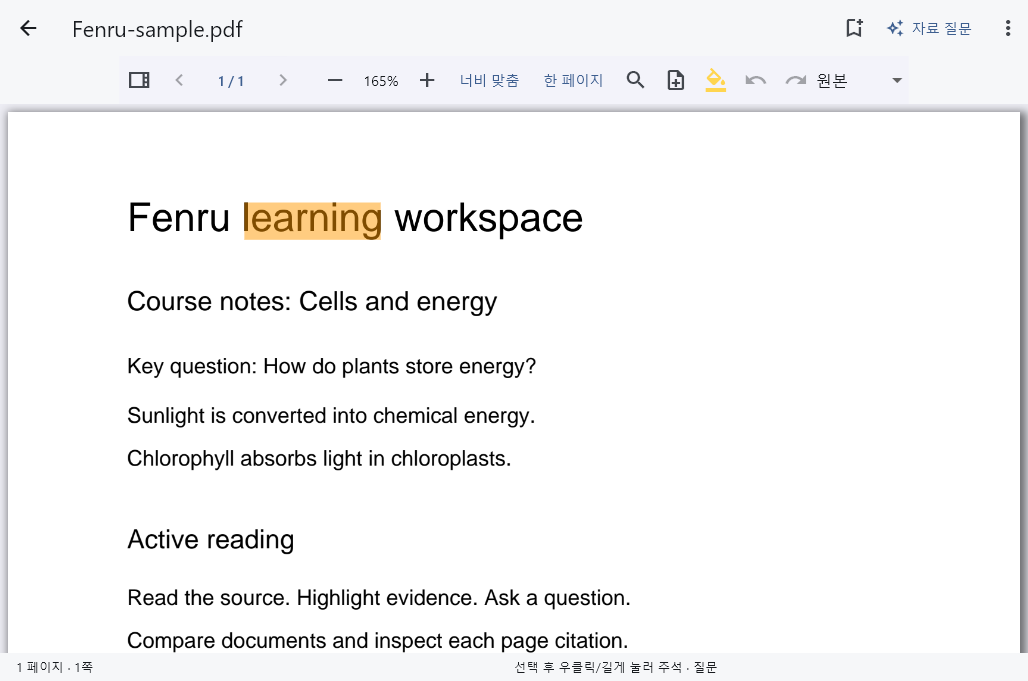
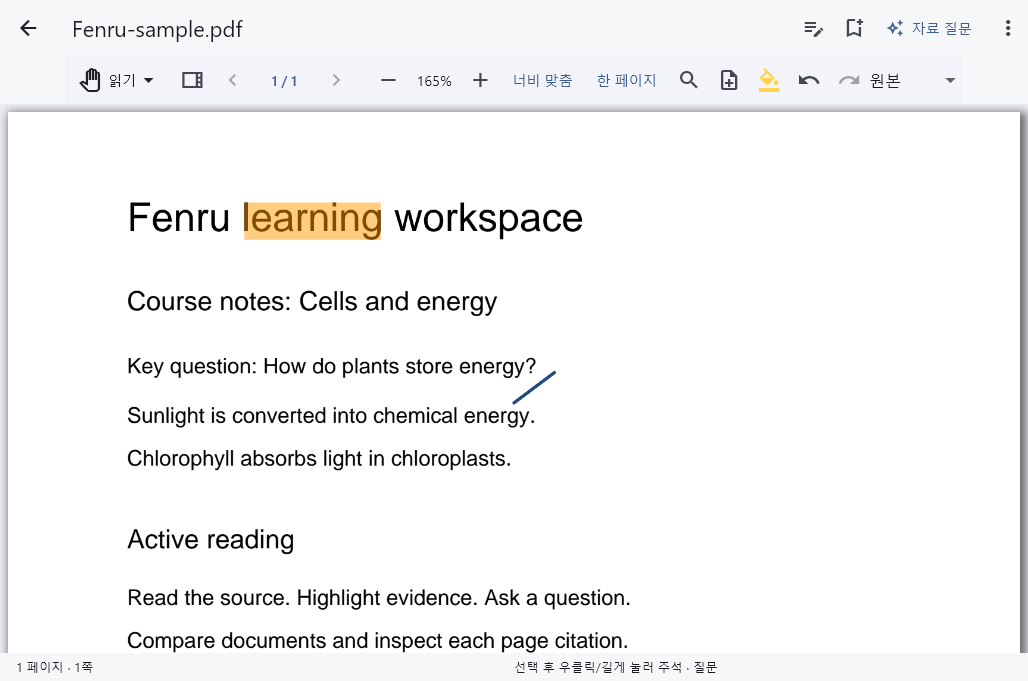
docs: record alpha.7 release and native study verification [skip ci]

diff --git a/README.md b/README.md
@@ -2,21 +2,23 @@
 
 내 기기에 자료와 학습 기록을 보관하는 Windows / Android용 Flutter 학습 워크스페이스입니다.
 
-**개발 프리릴리스입니다. 전체 제품 요구사항 구현은 완료되지 않았습니다.** Google Drive 자동 동기화는 아직 제공하지 않습니다. AI는 BYOK 코드와 모의 테스트를 검증했으며 실제 생성 API 성공은 미검증입니다. [구현 현황](docs/IMPLEMENTATION_STATUS.md)을 확인하세요.
+**개발 프리릴리스입니다. 전체 제품 요구사항 구현은 완료되지 않았습니다.** Google Drive 자동 동기화는 아직 제공하지 않습니다. AI는 BYOK 방식이며 사용자가 실제 답변 품질이 좋다고 보고했습니다. 자동 검증은 모의 제공자를 사용하며 실제 모델 답변의 정확성을 보장하지 않습니다. [구현 현황](docs/IMPLEMENTATION_STATUS.md)을 확인하세요.
 
 ## 다운로드
 
-[v0.1.0-alpha.5 개발 프리릴리스](https://github.com/vividhyeok/fenru/releases/tag/v0.1.0-alpha.5)를 게시했습니다. [Windows 설치 프로그램](https://github.com/vividhyeok/fenru/releases/download/v0.1.0-alpha.5/Fenru-Windows-x64-Setup.exe), [Portable ZIP](https://github.com/vividhyeok/fenru/releases/download/v0.1.0-alpha.5/Fenru-Windows-x64-portable.zip), [프로젝트 키 서명 Android APK](https://github.com/vividhyeok/fenru/releases/download/v0.1.0-alpha.5/Fenru-Android-release.apk)를 제공합니다. 체크섬과 공개 서명 인증서 정보는 릴리스에 포함됩니다. [최종 CI](https://github.com/vividhyeok/fenru/actions/runs/39614048408)는 40개 unit/widget 테스트, Windows/Android 문서 통합 테스트와 두 플랫폼 빌드/패키징을 통과했습니다.
+[v0.1.0-alpha.7 개발 프리릴리스](https://github.com/vividhyeok/fenru/releases/tag/v0.1.0-alpha.7)를 게시했습니다. [Windows 설치 프로그램](https://github.com/vividhyeok/fenru/releases/download/v0.1.0-alpha.7/Fenru-Windows-x64-Setup.exe), [Portable ZIP](https://github.com/vividhyeok/fenru/releases/download/v0.1.0-alpha.7/Fenru-Windows-x64-portable.zip), [프로젝트 키 서명 Android APK](https://github.com/vividhyeok/fenru/releases/download/v0.1.0-alpha.7/Fenru-Android-release.apk)를 제공합니다. 체크섬과 공개 서명 인증서 정보는 릴리스에 포함됩니다. [최종 CI](https://github.com/vividhyeok/fenru/actions/runs/39712689175)는 47개 unit/widget 테스트, Windows/Android 문서 통합 테스트와 두 플랫폼 빌드/패키징을 통과했습니다.
 
 ## 구현한 기능
 
 - 로컬 전용 온보딩과 라이트/다크 테마
 - 파일 가져오기·해시 중복 검사·이름/폴더/태그·휴지통
-- PDF 썸네일·목차·주석 탐색, 확대/맞춤·검색·읽기 색상·책갈피·페이지 메모·선택 하이라이트/밑줄
+- PDF 썸네일·목차·주석 탐색, 확대/맞춤·검색·읽기 색상·책갈피·페이지 메모·선택 하이라이트/밑줄·펜 필기/자유 형광펜/직선 밑줄
+- PDF 옆 자동 저장 정리 노트, 질문 패널 집중 보기·초안/대화 기록·답변 저장 완료와 노트 열기
+- 설치된 문서 프로그램을 이용한 Office/한글 PDF 변환 시도·원본 보관·실패 재시도 (Android 변환 엔진 미제공)
 - 텍스트와 이미지 미리보기, 다른 형식은 외부 앱으로 열기
 - Markdown 노트 편집·자동 저장·미리보기·자료 연결
 - 제목/노트/텍스트 검색, 학습 일정·완료 체크
-- Canvas HTTPS 주소와 보안 토큰 설정, 선택 과목 파일·과제 가져오기
+- Canvas HTTPS 연결, 파일·주차 모듈·LearningX·페이지·게시판/공지·공개 답글·과제 설명의 첨부 탐색
 - ZIP 백업 및 벡터 시계 기반 병합·충돌 복사본
 - 앱 내부 도움말과 오픈소스 라이선스 화면
 - OpenAI Responses / DeepSeek BYOK 설정, 모델 조회/직접 입력, 스트리밍·취소·대화 보관, 과목/자료별 질문·로컬 근거 검색과 검증된 내부 출처 링크
@@ -67,6 +69,10 @@ SQLite와 파일은 앱 지원 디렉터리/workspace에 보관합니다. 실행
 ![데스크톱 라이트 모드 테스트 렌더](docs/screenshots/home-desktop-test-render.png)
 ![모바일 다크 모드 테스트 렌더](docs/screenshots/home-mobile-test-render.png)
 
-alpha.5 Windows 문서 통합 테스트에서 직접 렌더링한 PDF 리더입니다. 프로젝트가 작성한 테스트 문서를 사용했습니다.
+alpha.7 Windows 문서 통합 테스트에서 직접 렌더링한 PDF 리더입니다. 프로젝트가 작성한 테스트 문서를 사용했습니다.
 
 ![Windows PDF 리더 통합 테스트](docs/screenshots/reader-native-scoped.png)
+
+아래는 작성한 예시 대화를 사용한 alpha.7 채팅 위젯 테스트 렌더입니다. 실제 생성 API 응답 캡처가 아닙니다.
+
+![학습 질문 화면 테스트 렌더](docs/screenshots/study-chat-test-render.png)

diff --git a/docs/IMPLEMENTATION_STATUS.md b/docs/IMPLEMENTATION_STATUS.md
@@ -3,7 +3,7 @@
 최종 갱신: 2026-10-22 (Asia/Seoul)
 
 ## 상태
-alpha.7 후보: 채팅 세로 공간 정리·패널 집중 보기·대화 기록/초안·저장 완료/노트 열기·출처 연계, PDF 자유 필기/형광펜/밑줄과 별도 자동 저장 정리 노트, 설치된 변환 프로그램을 통한 Office/한글 PDF 변환, Canvas 페이지/게시판/공지/답글/과제 첨부 탐색을 추가했습니다. 로컬 unit/widget 47개 통과. Windows Word/PowerPoint의 작성한 DOCX/PPTX 변환은 확인했으며 HWP/HWPX/LibreOffice 실제 변환은 미검증입니다. Android는 변환 엔진을 제공하지 않습니다. 실제 Canvas 새 탐색에서 표본 과목 한 개의 문서 12개(주차 8/공지 2/과제 2)를 읽기 전용으로 발견했습니다. 실제 자료 가져오기는 하지 않았습니다. alpha.6 후보의 네이티브 검증은 펜 저장 이후 하이라이트 메뉴 선택 대상을 혼동하여 실패했으며 테스트 선택자를 수정했습니다. alpha.6은 Release로 게시하지 않았습니다. 플랫폼 통합/릴리스는 진행 중입니다.
+alpha.7 배포 완료: 채팅 세로 공간 정리·패널 집중 보기·대화 기록/초안·저장 완료/노트 열기·출처 연계, PDF 자유 필기/형광펜/밑줄과 별도 자동 저장 정리 노트, 설치된 변환 프로그램을 통한 Office/한글 PDF 변환, Canvas 페이지/게시판/공지/답글/과제 첨부 탐색을 추가했습니다. 로컬 unit/widget 47개 통과. Windows Word/PowerPoint의 작성한 DOCX/PPTX 변환은 확인했으며 HWP/HWPX/LibreOffice 실제 변환은 미검증입니다. Android는 변환 엔진을 제공하지 않습니다. 실제 Canvas 새 탐색에서 표본 과목 한 개의 문서 12개(주차 8/공지 2/과제 2)를 읽기 전용으로 발견했습니다. 실제 자료 가져오기는 하지 않았습니다. alpha.6 후보의 네이티브 검증은 펜 저장 이후 하이라이트 메뉴 선택 대상을 혼동하여 실패했으며 테스트 선택자를 수정했습니다. alpha.6은 Release로 게시하지 않았습니다. Actions 39712689175 전체 성공: 포맷·분석·47개 테스트, Windows/Android PDF 펜 입력·텍스트 주석·Undo/Redo·정리 노트 자동 저장·재오픈 보존 통합 검증, Windows release/설치형/Portable 및 Android 프로젝트 서명 release APK/서명 확인, Release 게시를 통과했습니다. Windows 설치형과 Portable 배포 파일 SHA256 일치를 확인하고 실제 Windows 통합 테스트 PDF 렌더의 필기 위치를 시각 확인했습니다. 로컬 Windows 컴파일/수동 앱 실행 성공을 주장하지 않습니다.
 
 alpha.5 배포 완료: 사용자의 요청에 따라 독립 AI 메뉴/상단 일반 대화 진입을 제거하고 과목·자료에 질문을 통합했습니다. 과목별 자료 목록/질문 패널, 자료 전체/현재 페이지/선택 문장, 범위별 대화 저장, PDF/텍스트 본문 버전 캐시와 키워드 기반 발췌 검색, 원문 페이지 버튼을 구현했습니다. PDF 리더는 탐색(페이지 썸네일/목차/주석), 확대/맞춤/검색, 읽기 색상, 주석 색상/현재 실행 중 생성한 주석 Undo/Redo, 너비 조절 질문 패널을 제공합니다. 로컬/CI unit/widget 40개와 정적 분석, Windows/Android 문서 통합 테스트, 두 플랫폼 release 빌드/패키징 및 Android 서명 검증을 통과했습니다. Actions 39614048408에서 alpha.5를 게시했습니다. Windows 설치형/Portable 배포 파일의 SHA256 일치를 확인했습니다. 실제 유료 생성 API 호출은 수행하지 않았습니다.
 

diff --git a/docs/USER_GUIDE.md b/docs/USER_GUIDE.md
@@ -5,3 +5,9 @@
 자료를 가져오면 원본과 별도로 복사됩니다. 라이브러리 메뉴에서 이름/폴더/태그를 수정하고, PDF에서 책갈피와 페이지 메모를 추가하세요. 노트는 Markdown 자동 저장이며 미리보기를 지원합니다. 플래너에 목표와 날짜를 입력하고 완료를 체크할 수 있습니다.
 
 다른 기기로 이동하려면 설정 → ZIP 백업 후 대상 기기에서 백업 병합 복원을 사용합니다. ZIP에 개인 자료가 포함되며 암호화되지 않습니다. 외부 AI로 문서를 자동 업로드하거나 웹 구독 기능을 우회하지 않습니다.
+
+PDF 도구줄의 읽기 메뉴에서 펜 필기·자유 형광펜·직선 밑줄을 선택하세요. 이동/텍스트 선택은 읽기로 돌아갑니다. 필기는 원본 PDF를 변경하지 않고 앱에 별도로 저장하며 ZIP 백업에 포함됩니다. 상단 정리 노트 버튼은 같은 자료 노트를 재사용합니다. 넓은 화면에서는 자료 옆에서 편집하고, 작은 화면에서는 노트 화면으로 이동합니다.
+
+질문의 참고 범위·모델·이전 대화·연결 노트는 대화 메뉴에서 확인합니다. 노트로 저장 후 완료 메시지의 열기 버튼을 누르세요. 패널을 넓게 보거나 나란히 전환해도 작성 중 질문을 유지합니다. 입력창의 +는 한 문제씩 복습 등의 문장을 준비하며 자동 전송하지 않습니다.
+
+Office/한글 문서는 원본 저장 후 PDF 변환을 시도합니다. Windows에 LibreOffice 또는 해당 Word/PowerPoint/한글이 필요하며, 한글은 파일 접근 허용이 필요할 수 있습니다. 실패 원본 화면에서 PDF로 변환·재시도합니다. Android에는 변환 엔진이 없으므로 원본 앱에서 PDF로 저장하거나 Windows 변환 PDF를 백업으로 옮기세요. Canvas 자료는 과목 가져오기를 다시 실행하면 새 탐색 경로의 첨부도 확인합니다.

diff --git a/docs/RELEASE_NOTES.md b/docs/RELEASE_NOTES.md
@@ -23,7 +23,7 @@
 alpha.6 후보는 네이티브 통합 테스트의 새 메뉴 선택 대상을 바로잡기 위해 배포 전에 중단했으며 Release로 게시하지 않았습니다.
 
 ## 검증과 업데이트
-47개 unit/widget 테스트 통과. PDF 펜 입력/검색/확대/주석 Undo·Redo/정리 노트 자동 저장/재오픈 보존을 Windows·Android 문서 통합 테스트로 검증합니다. 최종 결과는 Actions 및 구현 현황을 확인하세요. 이번 변경에서 실제 유료 AI 생성 요청은 하지 않았습니다.
+47개 unit/widget 테스트와 PDF 펜 입력/검색/확대/주석 Undo·Redo/정리 노트 자동 저장/재오픈 보존의 Windows·Android 문서 통합 테스트를 통과했습니다. [최종 Actions](https://github.com/vividhyeok/fenru/actions/runs/39712689175) 전체 성공 및 두 플랫폼 패키징/Android 서명 검증을 확인했습니다. 이번 변경에서 실제 유료 AI 생성 요청은 하지 않았습니다.
 
 Windows 설치형/Portable는 서명되지 않았습니다. Android APK는 기존 프로젝트 키로 서명합니다. 기존 Fenru를 종료하고 새 버전을 실행하세요. 자료와 연결 설정은 유지되며, 업데이트 전 ZIP 백업을 권장합니다. Google Drive 자동 동기화·의미 기반 전체 라이브러리 RAG/OCR 등 전체 제품 요구사항은 아직 완료되지 않았습니다.
 

diff --git a/CHANGELOG.md b/CHANGELOG.md
@@ -1,12 +1,12 @@
 # Changelog
 
-## 0.1.0-alpha.7 — 2026-10-22 공부 작업 화면 후보
+## 0.1.0-alpha.7 — 2026-10-22 공부 작업 화면
 
 - 답변 공간 확대, 패널 집중 보기, 대화 기록/초안 유지, 노트 저장 완료와 바로 열기, 출처 연결.
 - PDF 펜/자유 형광펜/직선 밑줄, 색상/굵기, 주석 Undo/Redo, 자료 옆 자동 저장 정리 노트.
 - 설치된 변환 프로그램으로 Office/한글 원본의 PDF 변환 시도·실패 보고/재시도·원본 보존. Android 변환 엔진은 미제공.
 - Canvas 페이지/게시판/공지/답글/과제의 첨부 탐색 및 기존 LearningX 지원 유지.
-- 47개 unit/widget 테스트. 플랫폼 통합 검증과 릴리스는 진행 중. alpha.6 후보는 메뉴 선택 검증을 수정하기 위해 게시하지 않음.
+- 47개 unit/widget·Windows/Android PDF 필기/노트 통합 검증·두 플랫폼 빌드와 패키징/Android 서명 확인 통과 및 릴리스 게시. alpha.6 후보는 메뉴 선택 검증을 수정하기 위해 게시하지 않음.
 
 ## 0.1.0-alpha.5 — 2026-10-21 과목/자료 질문과 학습 PDF 리더
 
